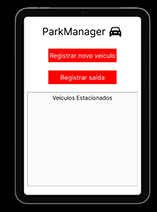
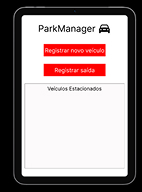
Formatação responsiva para iPad Mini
Imagens alteradas

diff --git a/index.html b/index.html
@@ -39,7 +39,7 @@
         <div class="comofunciona">
             <p>Veja como funciona:</p>
         </div>
-        <div class="telas">
+        <div class="carrossel">
             <div class="tela1"></div>
             <img class="seta" src="./svg/seta.svg" alt="Seta para a direita">
             <div class="tela2"></div>
@@ -50,29 +50,31 @@
             <p>Gerencie seu estacionamento com poucos cliques!</p>
             <div class="parte1">
                 <p>Visualize os veículos já estacionados.</p>
-                <img src="./img/tela1.jpg" alt="Tela inicial">
+                <img class="telas" src="./img/tela1.jpg" alt="Tela inicial">
             </div>
             <div class="parte2">
                 <p>Registre as informações do cliente.</p>
-                <img src="./img/tela2.jpg" alt="Tela de registro de entrada">
+                <img class="telas" src="./img/tela2.jpg" alt="Tela de registro de entrada">
             </div>
             <div class="parte3">
                 <p>Saiba o valor que vai receber com apenas um clique.</p>
-                <img src="./img/tela3.jpg" alt="Tela de registro de saída">
+                <img class="telas" src="./img/tela3.jpg" alt="Tela de registro de saída">
             </div>
         </div>
     </main>
     <footer>
         <p>ParkManager &#0174</p>
-        |
-        <div class="instagram">
-            <img src="./svg/instagram-logo.svg" alt="Logo do Instagram">
-            <p>@ParkManager</p>
-        </div>
-        |
-        <div class="whatsapp">
-            <img src="./svg/whatsapp-logo.svg" alt="Logo do WhatsApp">
-            <p>(11) 94440-5068</p>
+        <p class="barra">|</p>
+        <div class="sites">
+            <div class="instagram">
+                <img class="logos" src="./svg/instagram-logo.svg" alt="Logo do Instagram">
+                <p>@ParkManager</p>
+            </div>
+            <p>|</p>
+            <div class="whatsapp">
+                <img class="logos" src="./svg/whatsapp-logo.svg" alt="Logo do WhatsApp">
+                <p>(11) 94440-5068</p>
+            </div>
         </div>
     </footer>
 </body>

diff --git a/css/style.css b/css/style.css
@@ -6,6 +6,7 @@ body {
     color: #fff;
 }
 
+/*FORMATAÇÃO PARA DESKTOP*/
 header,
 main {
     display: flex;
@@ -71,7 +72,9 @@ main {
     justify-content: center;
 }
 
-.telas {
+.carrossel {
+    align-items: center;
+    justify-content: center;
     display: flex;
     gap: 55px;
 }
@@ -115,11 +118,68 @@ footer {
     font-size: 32px;
     gap: 10px;
     justify-content: center;
-    margin: 30px;
+    padding: 30px;
+}
+
+.sites {
+    display: flex;
+    gap: 10px;
 }
 
 .instagram,
 .whatsapp {
     display: flex;
     gap: 10px;
+}
+
+/*FORMATAÇÃO PARA TABLET*/
+@media (max-width: 1024px) {
+    .subtitulo p {
+        margin: 0px;
+    }
+
+    .carrossel {
+        gap: 30px;
+    }
+
+    .seta {
+        width: 82.5px;
+        height: 71.25px;
+    }
+
+    .tela1 {
+        width: 142px;
+        height: 192px;
+        background-image: url(../img/tela1-tabl.jpg);
+    }
+
+    .tela2 {
+        width: 142px;
+        height: 192px;
+        background-image: url(../img/tela2-tabl.jpg);
+    }
+
+    .tela3 {
+        width: 142px;
+        height: 192px;
+        background-image: url(../img/tela3-tabl.jpg);
+    }
+
+    .telas {
+        width: 462px;
+        height: 329px;
+    }
+
+    .grupo p {
+        font-size: 30px;
+    }
+
+    footer p {
+        font-size: 25px;
+    }
+
+    .logos {
+        width: 25px;
+        height: 25px;
+    }
 }
